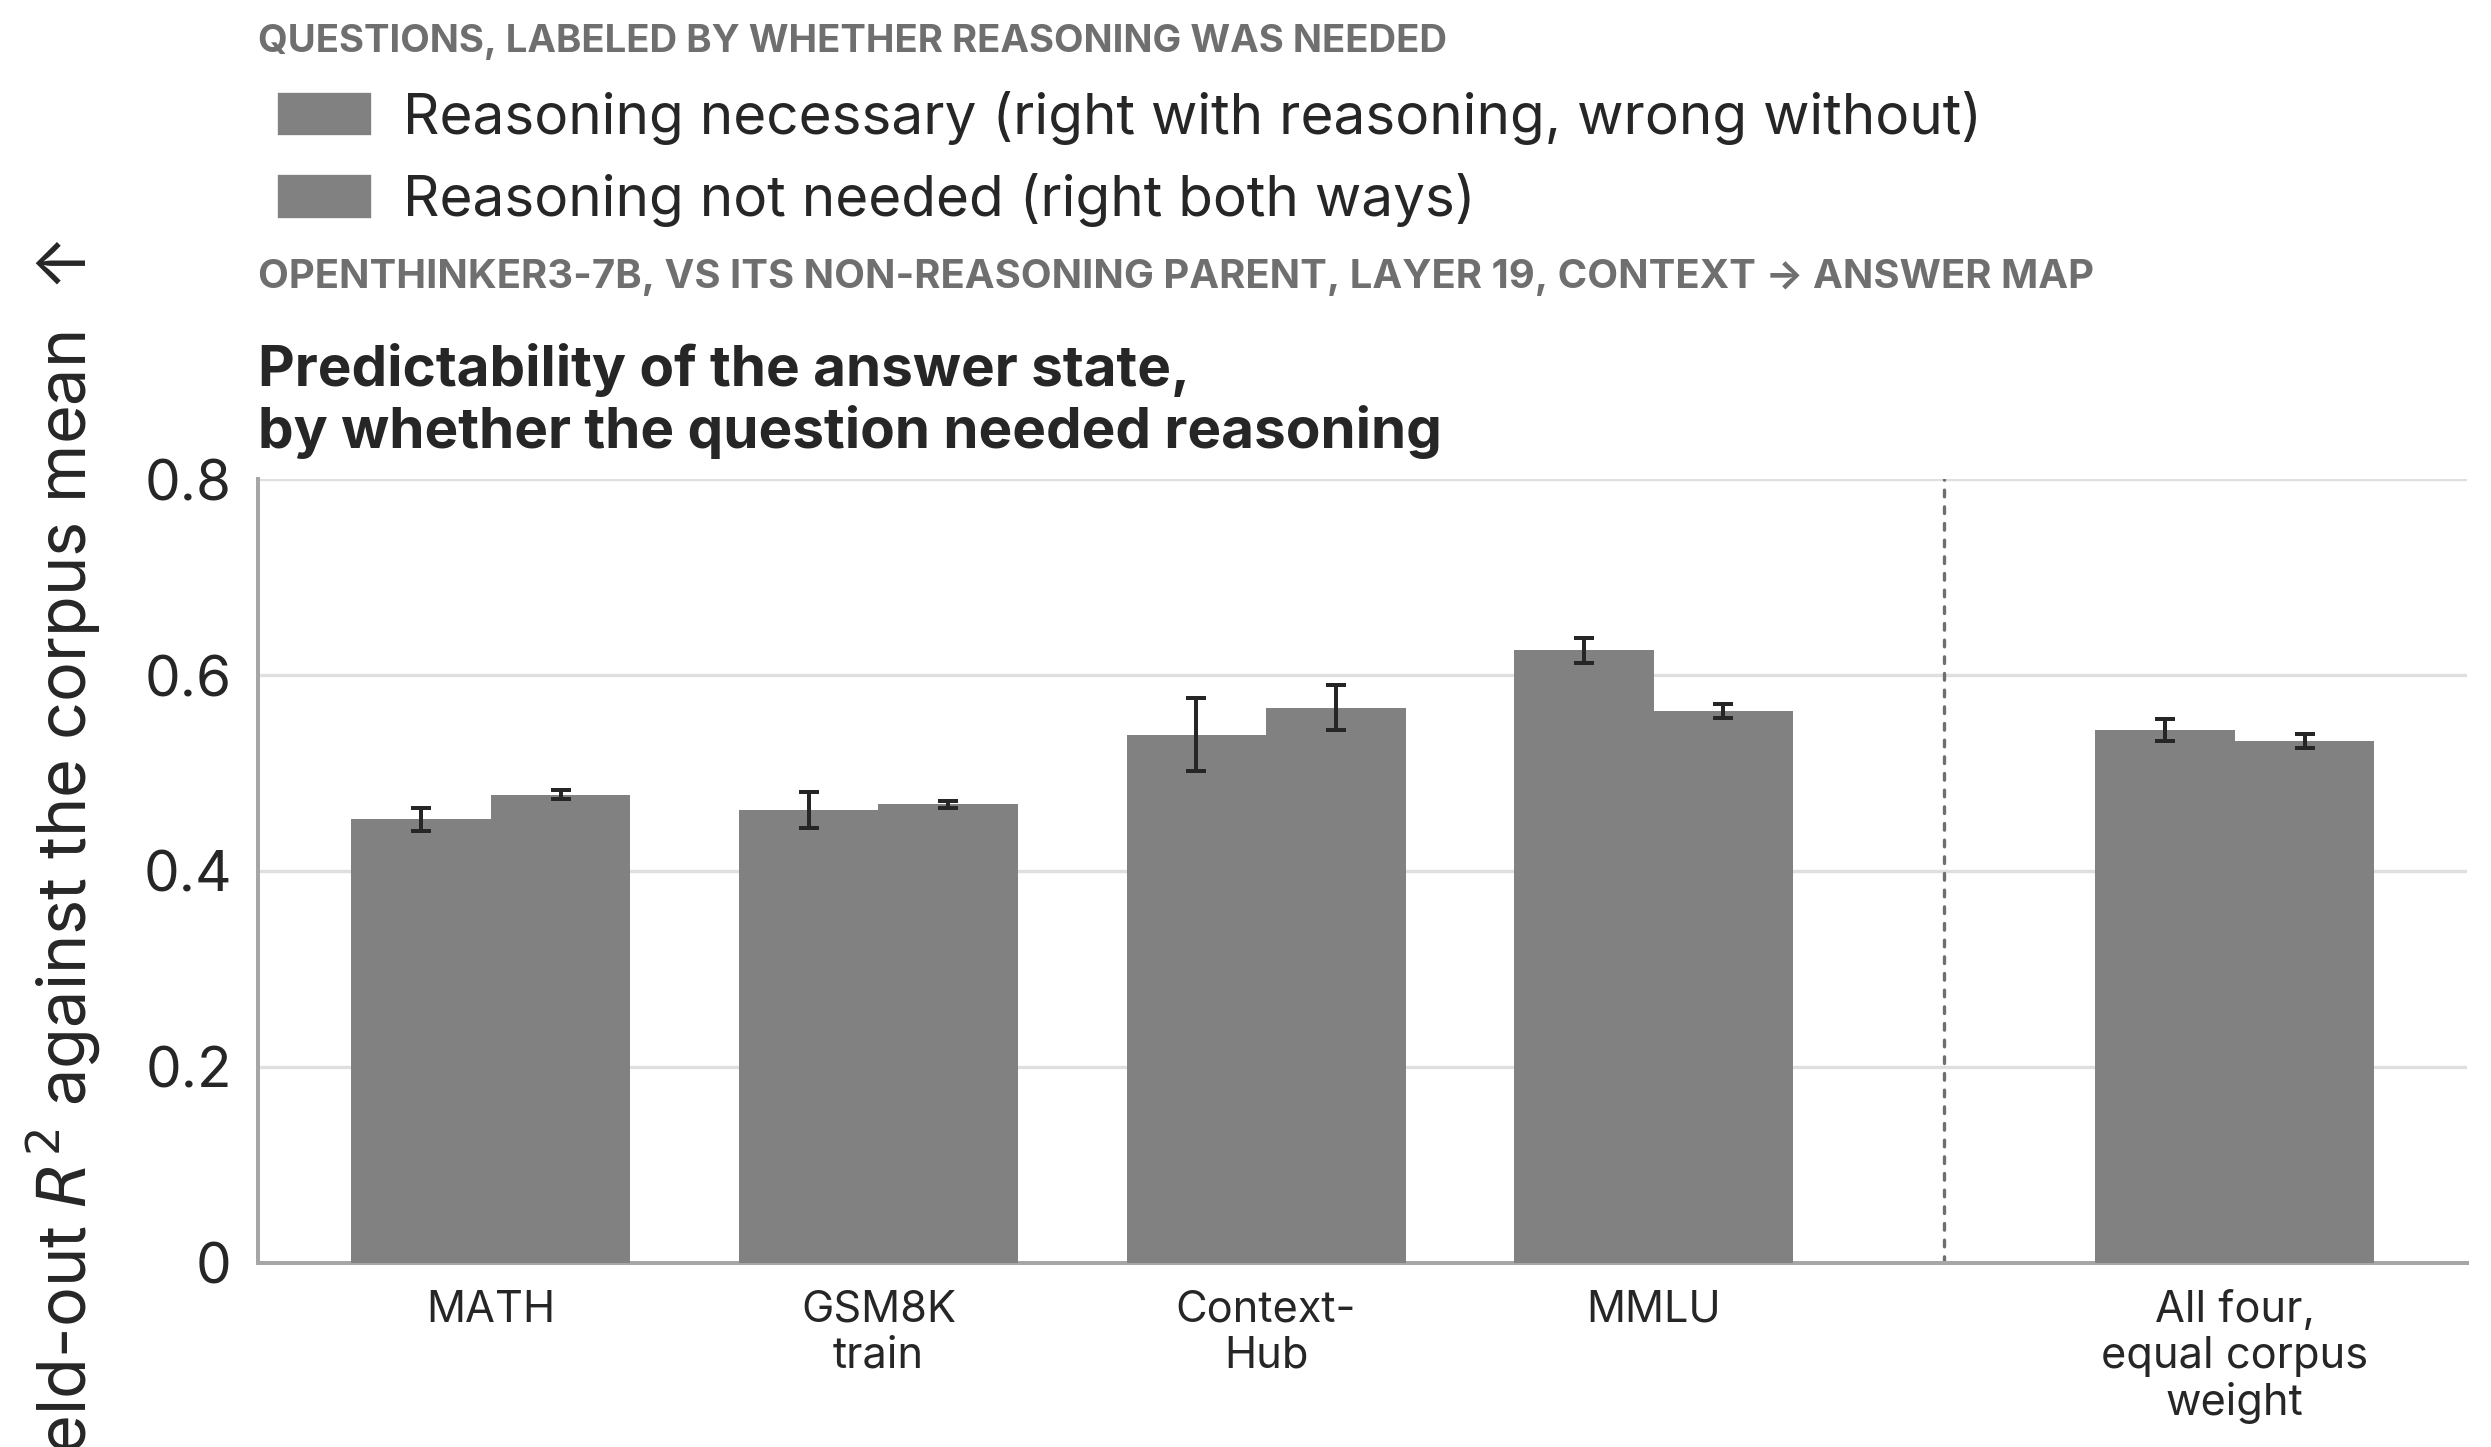
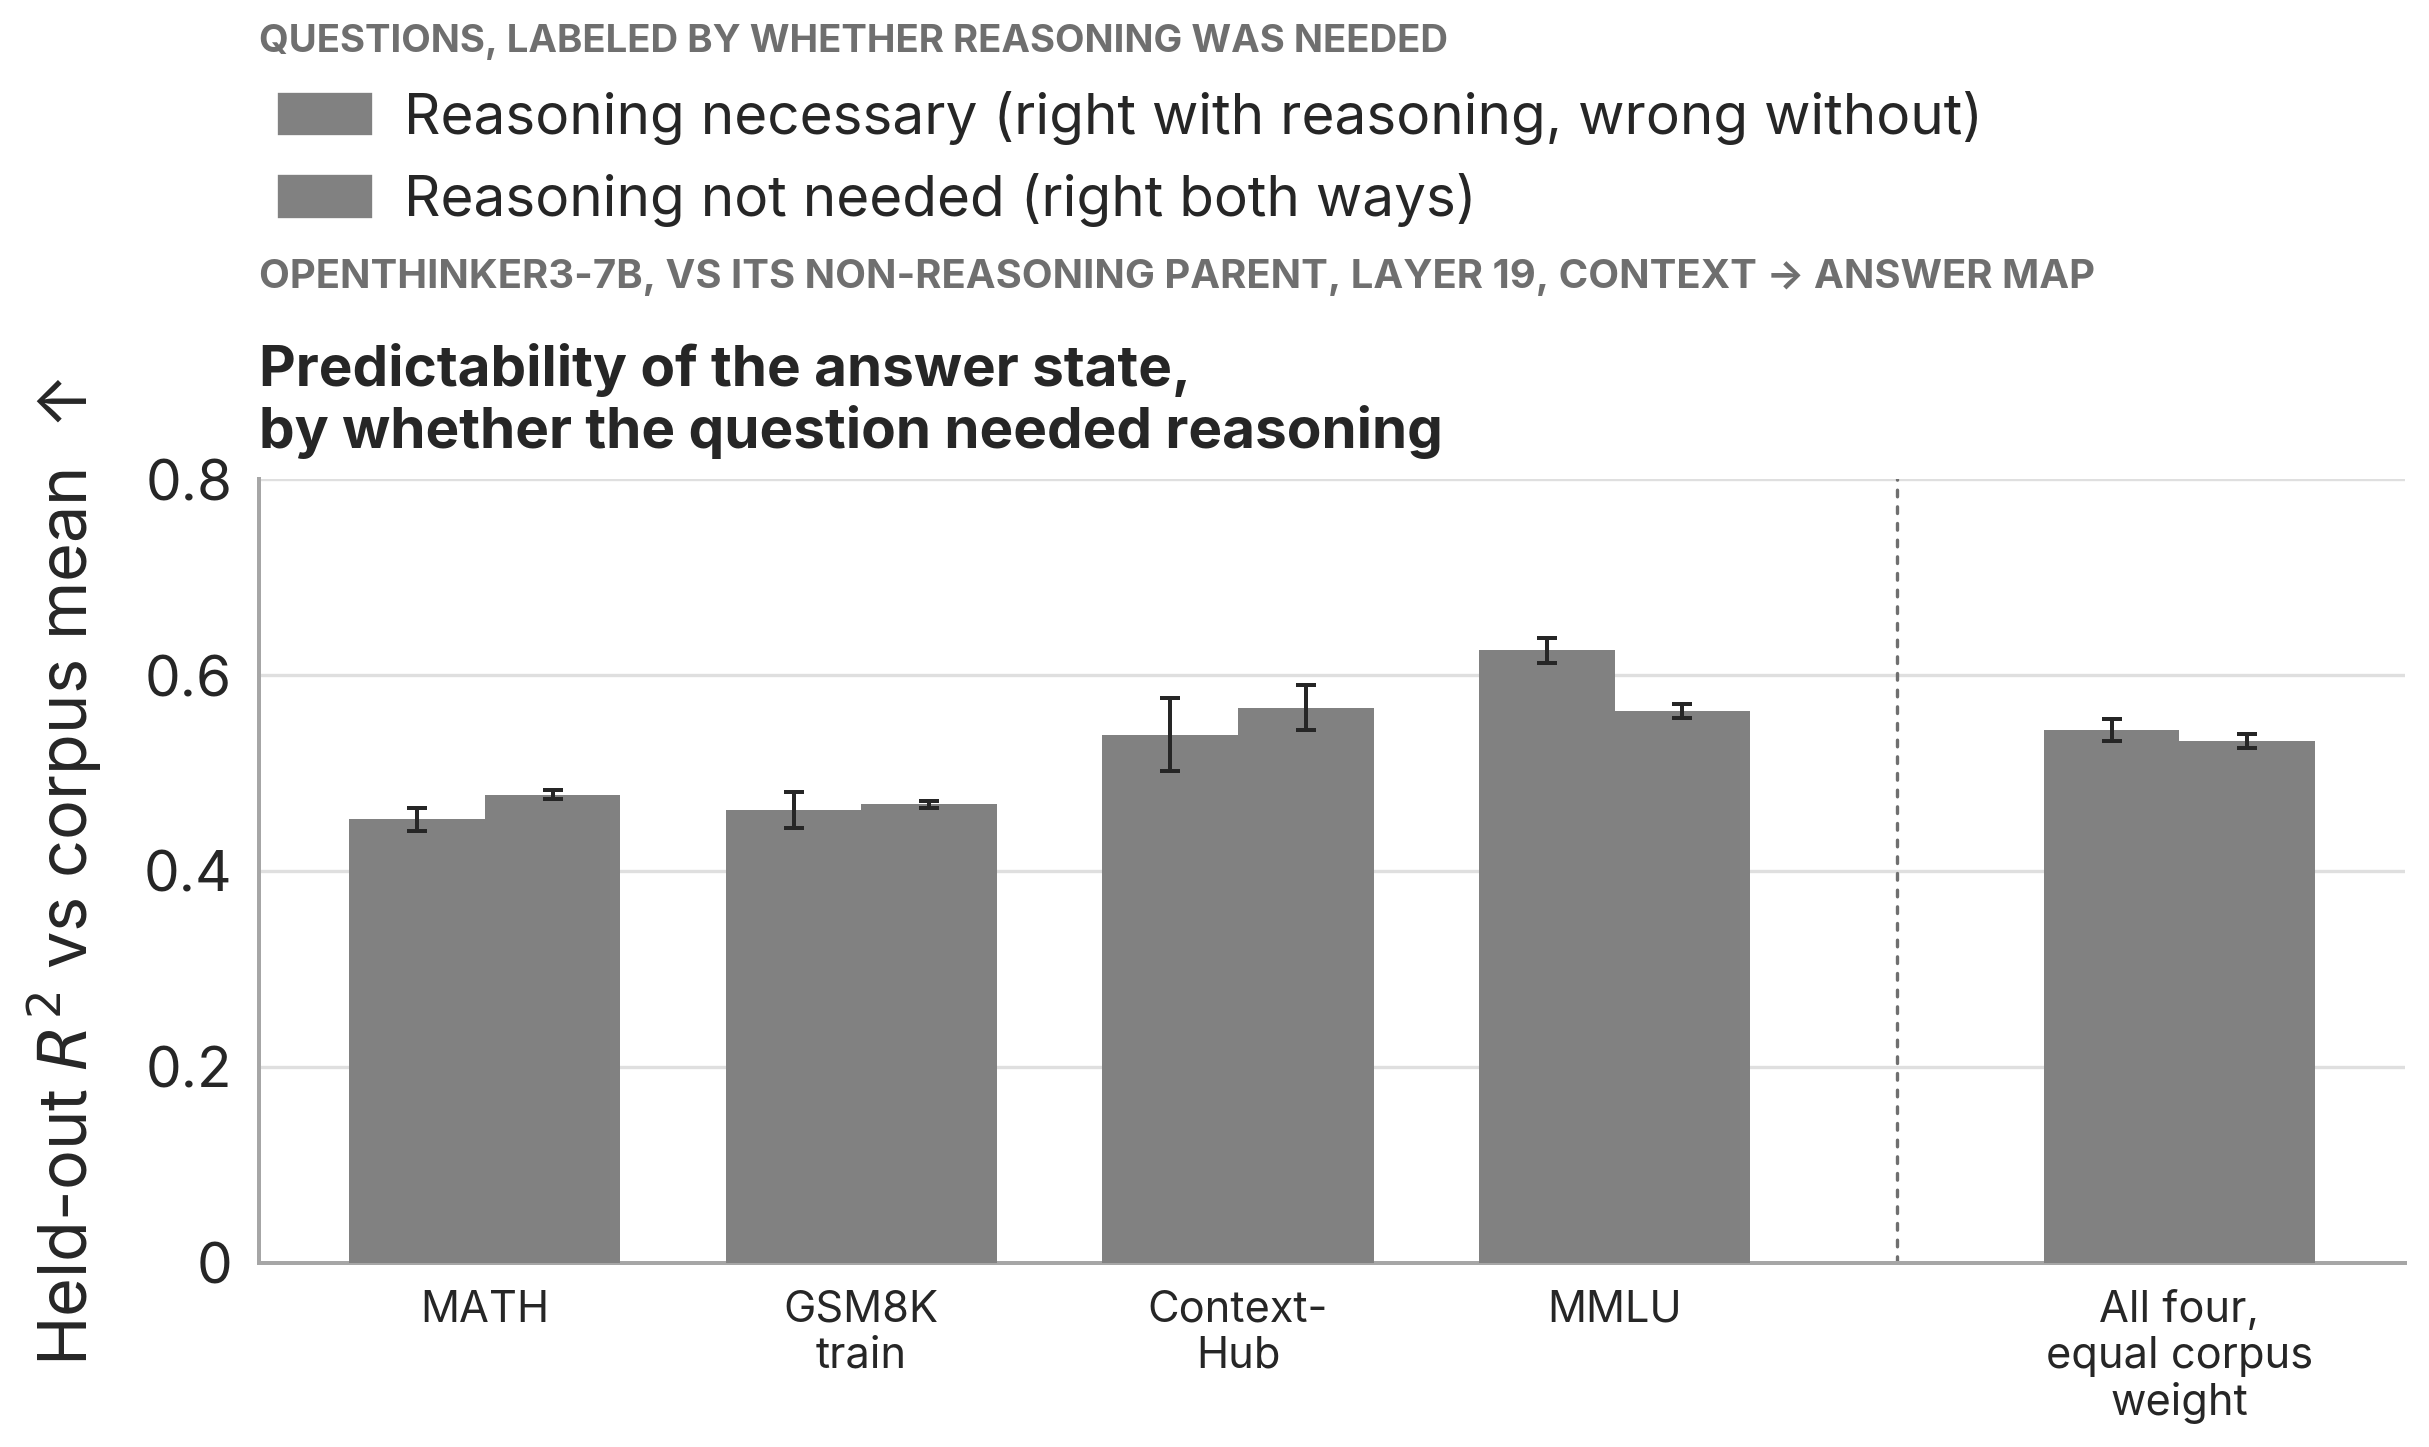
Necessity R^2 figure: wider left margin so the y label is not clipped
Generated with [Claude Code](https://claude.ai/code)
via [Happy](https://happy.engineering)

diff --git a/scripts/section45_cot_necessity_r2_figure.py b/scripts/section45_cot_necessity_r2_figure.py
@@ -297,7 +297,7 @@ def make_figure(results: dict[str, Any], titles: dict[str, str], *, arms: tuple[
     set_c2a_style()
     n = len(arms)
     fig = plt.figure(figsize=(10.4 if n == 1 else 14.4, 6.4), constrained_layout=False)
-    grid = fig.add_gridspec(1, n, left=0.10 if n == 1 else 0.07, right=0.985, top=0.68, bottom=0.17, wspace=0.22)
+    grid = fig.add_gridspec(1, n, left=0.125 if n == 1 else 0.07, right=0.985, top=0.68, bottom=0.17, wspace=0.22)
     axes = [fig.add_subplot(grid[0, i]) for i in range(n)]
     for ax, arm, panel in zip(axes, arms, "ABCD"):
         block = results[arm]
@@ -331,13 +331,13 @@ def make_figure(results: dict[str, Any], titles: dict[str, str], *, arms: tuple[
         ax.set_xlim(-0.6, (ticks[-1] if ticks else len(CORPORA)) + 0.6)
         ax.set_xticks(ticks)
         ax.set_xticklabels(labels, fontsize=13, linespacing=1.15)
-        ax.set_ylabel("Held-out $R^2$ against the corpus mean  ↑" if baseline == "corpus" else "Held-out $R^2$, context → answer  ↑", labelpad=12)
+        ax.set_ylabel("Held-out $R^2$ vs corpus mean  ↑" if baseline == "corpus" else "Held-out $R^2$, context → answer  ↑", labelpad=12)
         prefix = f"{panel}  ·  " if n > 1 else ""
         _kicker(ax, titles[arm], f"{prefix}{spec['label']}, {spec['comparator']}, layer {spec['layer']}, context → answer map")
     handles = [Patch(facecolor=GROUP_COLOR[g], edgecolor=GROUP_COLOR[g], label=GROUP_LABEL[g]) for g in ("necessary", "both_correct")]
     if whole_corpus_line:
         handles.append(Line2D([0], [0], color=INK, lw=1.6, ls=(0, (3, 2)), label="Whole corpus"))
-    x0 = 0.10 if n == 1 else 0.07
+    x0 = 0.125 if n == 1 else 0.07
     fig.text(x0, 0.965, "QUESTIONS, LABELED BY WHETHER REASONING WAS NEEDED", color=MUTED, fontsize=11.5, fontweight=750, ha="left", va="center")
     fig.legend(handles=handles, loc="upper left", bbox_to_anchor=(x0 - 0.001, 0.948), ncol=1 if n == 1 else 3, frameon=False, columnspacing=1.3, handlelength=1.6, handletextpad=0.6, borderaxespad=0)
     return fig
